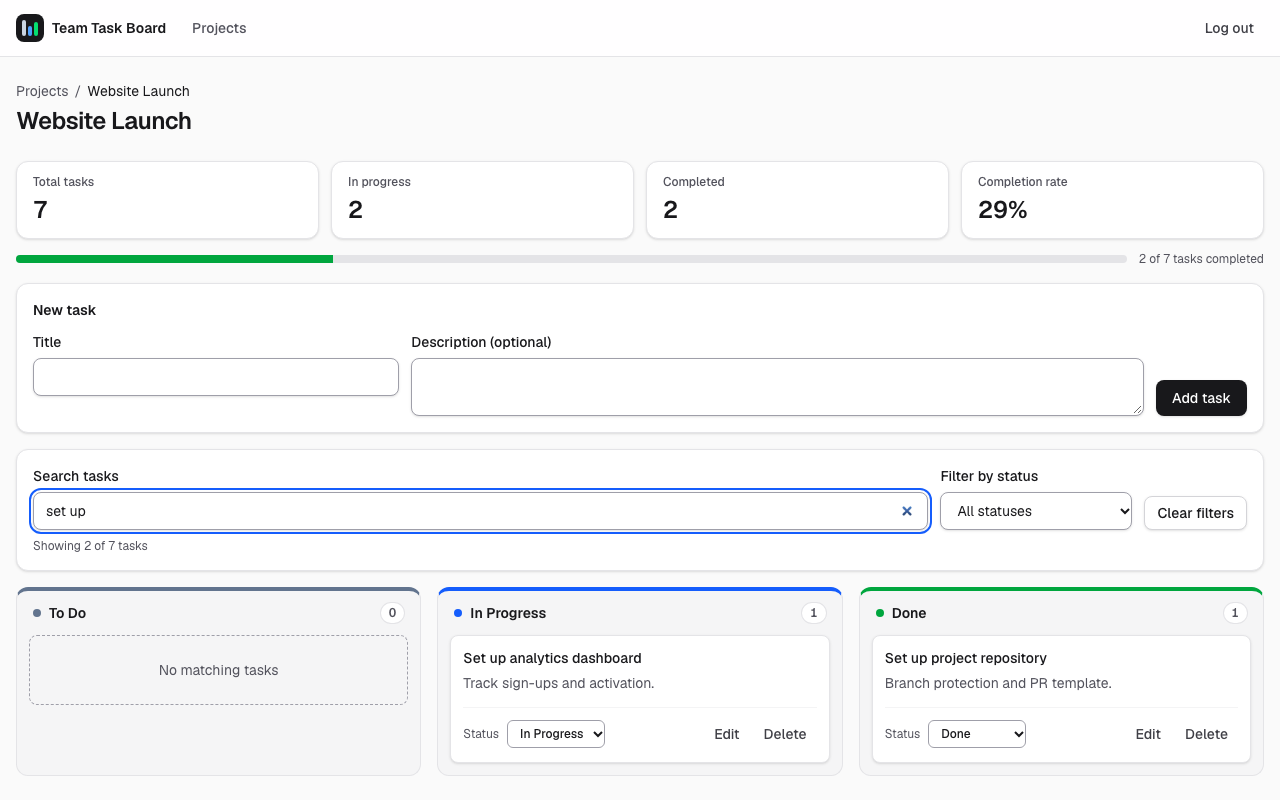
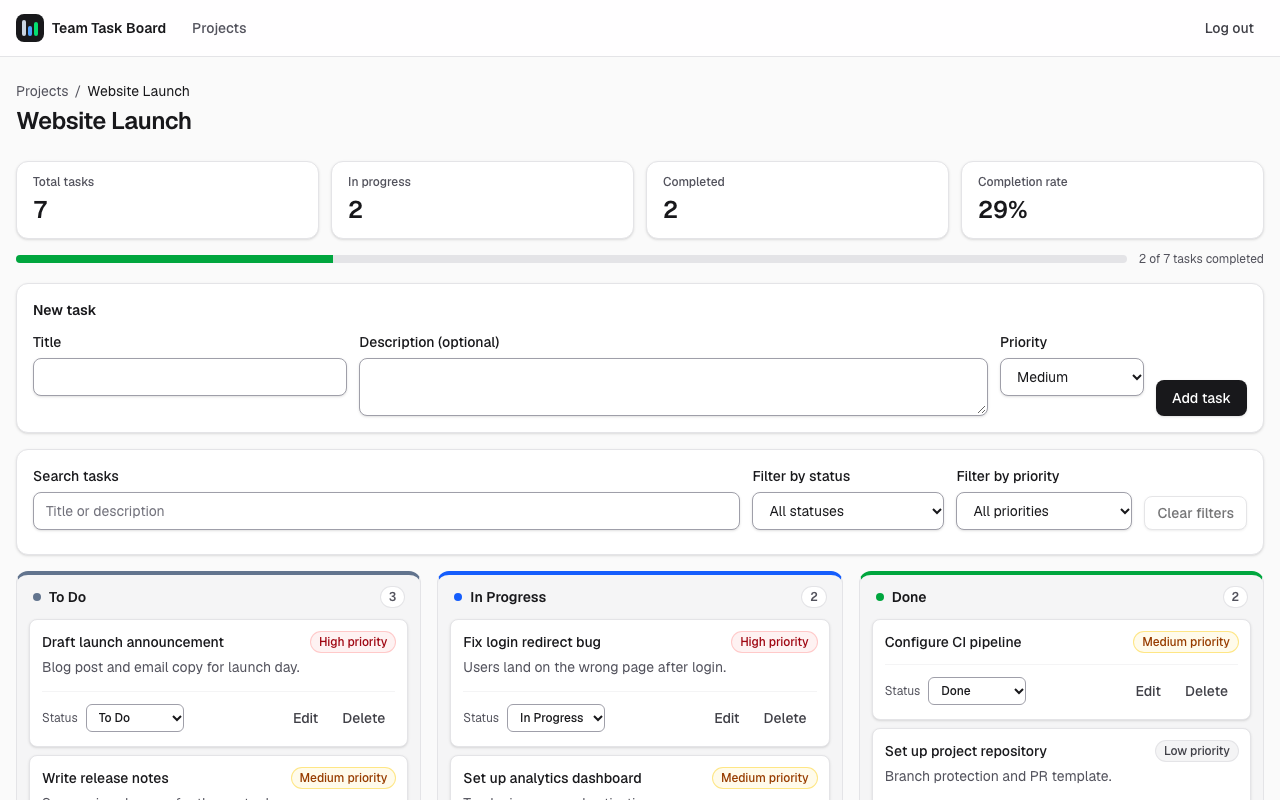
docs(#47): document task priority in the PRD, ER diagram, README, DESIGN.md, and screenshots
Refs #47

diff --git a/DESIGN.md b/DESIGN.md
@@ -55,7 +55,9 @@ Calm, modern, utilitarian, in the spirit of Linear and Notion. Neutral surfaces 
 | Buttons | From `src/components/ui/button-styles.ts`: `PRIMARY_BUTTON` (zinc-900, white text), `SECONDARY_BUTTON` (white, `border-zinc-300`), `GHOST_BUTTON` (text only, `hover:bg-zinc-100`), `DANGER_BUTTON` (red-700). All `rounded-lg text-sm font-medium` with the focus ring. Submit buttons show a small spinner while pending. |
 | Inputs | `INPUT`: `rounded-lg border border-zinc-400 bg-white px-3 py-2 text-sm shadow-sm`; label `text-sm font-medium` above; hint `text-xs text-zinc-600`. |
 | `ProjectOverview` | `role="group"` named "Project overview"; a `<dl>` of four stat cards (`bg-white border border-zinc-200 rounded-xl px-4 py-3 shadow-sm`; label `text-xs text-zinc-600`, value `text-2xl font-semibold tabular-nums`) in `grid-cols-2 sm:grid-cols-4`; then a native `<progress>` (`h-2 rounded-full`, track `bg-zinc-200`, fill `bg-green-600`) named "Completion rate" with an "X of Y tasks completed" caption. |
-| `TaskFilters` | Between the New task form and the columns: `role="search"` named "Filter tasks"; a card (`bg-white border border-zinc-200 rounded-xl p-4 shadow-sm`) with a labeled `type="search"` input ("Search tasks", placeholder "Title or description"), a "Filter by status" select (All statuses + the three statuses), and a secondary **Clear filters** button (disabled with no active filter); below, a `role="status"` line "Showing X of Y tasks" while filtering. Empty columns then say **"No matching tasks"**. |
+| `PriorityBadge` | Beside the card title: `rounded-full px-2 py-0.5 text-xs font-medium ring-1` with the text **"High priority" / "Medium priority" / "Low priority"** (never color alone). High `bg-red-50 text-red-800 ring-red-200`, Medium `bg-amber-50 text-amber-800 ring-amber-200`, Low `bg-zinc-100 text-zinc-700 ring-zinc-200`. Cards in a column are ordered High → Medium → Low. |
+| Priority select | In the add and edit forms, after the description: labeled **Priority**, options High / Medium / Low, default Medium. |
+| `TaskFilters` | Between the New task form and the columns: `role="search"` named "Filter tasks"; a card (`bg-white border border-zinc-200 rounded-xl p-4 shadow-sm`) with a labeled `type="search"` input ("Search tasks", placeholder "Title or description"), a "Filter by status" select (All statuses + the three statuses), a "Filter by priority" select (All priorities, High, Medium, Low), and a secondary **Clear filters** button (disabled with no active filter); below, a `role="status"` line "Showing X of Y tasks" while filtering. Empty columns then say **"No matching tasks"**. |
 | `BoardColumn` | `<section aria-labelledby>`; `rounded-xl border border-zinc-200 border-t-4 bg-zinc-100/80 p-3` plus the status color on the top border. Header: status dot (decorative) + `<h2>` with **only the title**; count pill (`rounded-full bg-white ring-1 ring-zinc-200 text-xs font-semibold`) beside it, with "tasks" for screen readers. Cards in `<ul>`/`<li>`, `gap-2`. |
 | Empty state | Dashed box (`border-dashed border-zinc-400 rounded-lg`) with **"No tasks yet"** (columns) or **"No projects yet"** plus a one-line hint (projects). |
 | `TaskCard` | `bg-white border border-zinc-200 rounded-lg p-3 shadow-sm hover:shadow-md`. `<h3>` title (`font-medium`), optional description `text-zinc-600`. Footer above a hairline: visible "Status" text (`aria-hidden`) and a native `<select>` named **"Status for {title}"**; ghost **Edit** and **Delete** named "Edit {title}" / "Delete {title}". |

diff --git a/README.md b/README.md
@@ -16,7 +16,8 @@ A minimal Kanban task board. Users sign up, group work into projects, and move t
 - **Projects** (#5): create and delete your own projects (deleting asks for confirmation and removes its tasks). Other users' projects are invisible (404).
 - **Board** (#6, #8): three columns with counts and an empty state; change a task's status from its dropdown. The card moves at once and is saved through the API; if saving fails, it moves back and an error is shown.
 - **Project overview** (#40): above the board, cards show total tasks, in progress, completed, and the completion rate, with a progress bar. They are derived from the board's tasks and update as soon as a card moves.
-- **Search and filter** (#45): a search box matches task titles and descriptions, a status filter narrows the columns, and Clear filters resets both; a live message shows how many tasks match. Filtering happens in the browser, so the overview still counts every task.
+- **Priority** (#47): every task is Low, Medium, or High priority (Medium by default), shown as a text badge on its card; each column lists High first, then Medium, then Low. Set it when adding a task or edit it later.
+- **Search and filter** (#45): a search box matches task titles and descriptions, status and priority filters narrow the columns, and Clear filters resets all three; a live message shows how many tasks match. Filtering happens in the browser, so the overview still counts every task.
 - **Tasks** (#7, #9): add a task (title required, description optional), edit its title and description, and delete it after confirming.
 - **REST API** (#7, #11, US5): every `/api/v1` endpoint is described in [docs/api/openapi.yaml](docs/api/openapi.yaml) and browsable with Swagger UI at `/api/docs`. Errors use `{ "error": { "code", "message" } }`.
 - **App shell** (#41): a shared header with the app name, Projects navigation, and Log out; a breadcrumb on each board; consistent buttons, inputs, empty states, loading skeletons, and error messages.

diff --git a/docs/prd.md b/docs/prd.md
@@ -68,6 +68,7 @@ Small teams lose track of who is doing what when tasks live in chat threads and 
 User    (id, email unique, name, passwordHash, createdAt)
 Project (id, name, ownerId → User, createdAt)                 on delete cascade
 Task    (id, projectId → Project, title, description?, status TODO|IN_PROGRESS|DONE,
+         priority LOW|MEDIUM|HIGH default MEDIUM (#47),
          createdAt, updatedAt)                                  index (projectId, status)
 ```
 

diff --git a/docs/architecture.md b/docs/architecture.md
@@ -90,6 +90,7 @@ erDiagram
     String title
     String description "nullable"
     TaskStatus status "TODO | IN_PROGRESS | DONE, default TODO"
+    TaskPriority priority "LOW | MEDIUM | HIGH, default MEDIUM"
     DateTime createdAt
     DateTime updatedAt
   }
